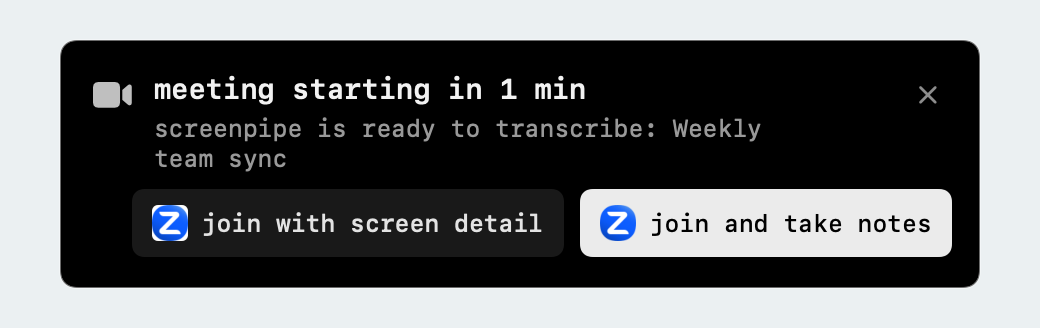
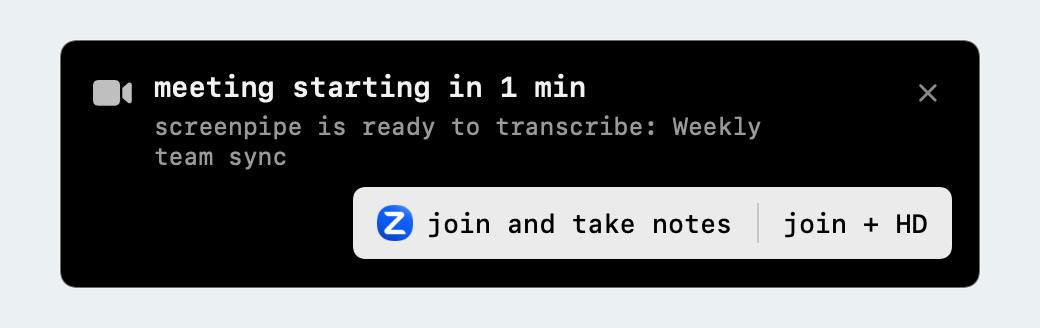
Unify meeting join choices in a light split control

diff --git a/apps/screenpipe-app-tauri/src-tauri/swift/shortcut_reminder.swift b/apps/screenpipe-app-tauri/src-tauri/swift/shortcut_reminder.swift
@@ -242,7 +242,7 @@ struct OverlayNotification: Equatable {
         return actions.map { action in
             guard action.id == detailAction.id else { return action }
             return OverlayNotificationAction(
-                id: action.id, label: uiText("join with screen detail"), primary: false,
+                id: action.id, label: uiText("join + HD"), primary: false,
                 payload: combined.payload, meetingProvider: combined.meetingProvider,
                 screenDetailBody: nil
             )
@@ -1722,10 +1722,70 @@ private struct OverlayNotificationView: View {
             }
             HStack(spacing: s(8)) {
                 Spacer(minLength: 0)
-                actionButtons
+                meetingJoinActions
             }
         }
         .padding(s(14))
+    }
+
+    /// Two immediate actions share one light surface. HD remains one click,
+    /// and its label explicitly includes joining rather than a recording toggle.
+    @ViewBuilder
+    private var meetingJoinActions: some View {
+        if let join = notification.actions.first(where: { $0.meetingProvider != nil }),
+           let detailID = notification.screenDetailAction?.id,
+           let detail = notification.displayActions.first(where: { $0.id == detailID }) {
+            ForEach(orderedActions.filter { $0.id != join.id && $0.id != detailID }) { action in
+                Button(action.label) { onAction(action) }
+                    .buttonStyle(.plain)
+                    .foregroundColor(.white.opacity(0.88))
+            }
+            HStack(spacing: 0) {
+                Button(action: { onAction(join) }) {
+                    HStack(spacing: s(7)) {
+                        if let provider = join.meetingProvider {
+                            if let image = provider.image {
+                                Image(nsImage: image)
+                                    .resizable()
+                                    .interpolation(.high)
+                                    .scaledToFit()
+                                    .frame(width: s(18), height: s(18))
+                                    .accessibilityHidden(true)
+                            } else {
+                                Image(systemName: "video.fill")
+                                    .font(.system(size: 16 * scale))
+                                    .frame(width: s(18), height: s(18))
+                                    .accessibilityHidden(true)
+                            }
+                        }
+                        Text(join.label)
+                    }
+                    .padding(.horizontal, s(12))
+                    .frame(height: s(36))
+                    .contentShape(Rectangle())
+                }
+                Rectangle()
+                    .fill(Color.black.opacity(0.15))
+                    .frame(width: 1, height: s(20))
+                    .accessibilityHidden(true)
+                Button(action: { onAction(detail) }) {
+                    Text(detail.label)
+                        .padding(.horizontal, s(12))
+                        .frame(height: s(36))
+                        .contentShape(Rectangle())
+                }
+                .help(uiText("Join and take notes with HD screen recording: more frequent screenshots for smoother replay. Uses more storage."))
+                .accessibilityLabel(uiText("Join and take notes with HD screen recording"))
+            }
+            .font(Brand.swiftUIMonoFont(size: 13 * scale, weight: .medium))
+            .foregroundColor(.black)
+            .buttonStyle(.plain)
+            .background(Color.white.opacity(0.92))
+            .clipShape(RoundedRectangle(cornerRadius: s(6)))
+            .fixedSize()
+        } else {
+            actionButtons
+        }
     }
 
     private var compactContent: some View {

diff --git a/apps/screenpipe-app-tauri/src-tauri/swift/shortcut_reminder_tests.swift b/apps/screenpipe-app-tauri/src-tauri/swift/shortcut_reminder_tests.swift
@@ -617,7 +617,7 @@ private func testJoinScreenDetailChoice() {
     let displayed = notification.displayActions
     expect(displayed.count == 2, "meeting must expose two one-click join choices")
     expect(displayed[0] == join, "ordinary Join must remain unchanged")
-    expect(displayed[1].label == "join with screen detail", "capture choice must explicitly say it joins")
+    expect(displayed[1].label == "join + HD", "capture choice must explicitly say it joins")
     expect(displayed[1].meetingProvider == .googleMeet, "both join choices must show the service icon")
     let detailPayload = try! JSONSerialization.jsonObject(with: Data(displayed[1].payload.utf8)) as! [String: Any]
     expect(detailPayload["type"] as? String == "meeting_join", "screen-detail button must join directly")
